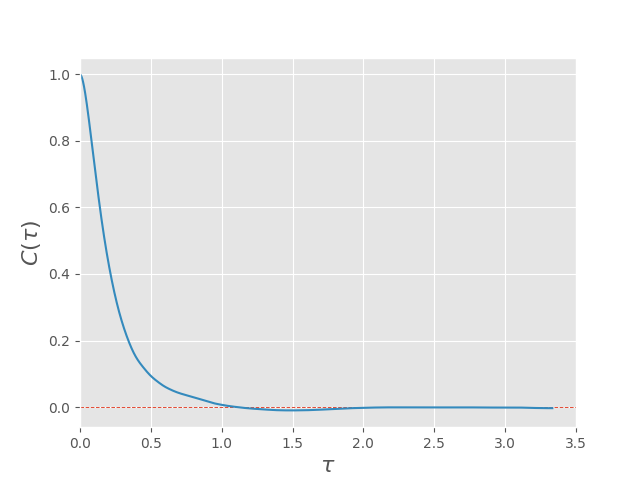
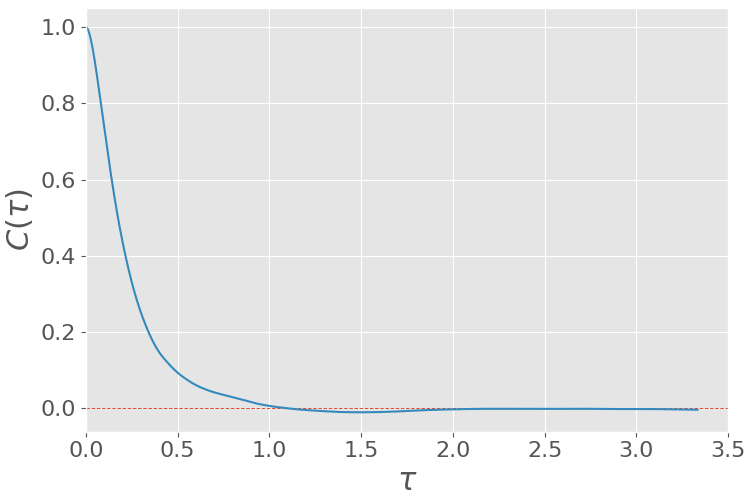
updates figures and legend for autocorr and pdf instant

diff --git a/draft_p2.tex b/draft_p2.tex
@@ -256,15 +256,16 @@ In particular, we show that extreme fluctuations mainly result from fluctuations
 
 \begin{figure}
   \centering
-    \subfloat[\ac{pdf} for the drag fluctuations $f'_d$]{\label{fig:pdf_drag_a}\includegraphics[width=.5\linewidth]{./PDF_drag/PDF_drag.png}}
-    \subfloat[Autocorrelation function of the the instantaneous drag $f_d$]{\label{fig:pdf_drag_b}\includegraphics[width=.5\linewidth]{autocorr_drag/autocorr_drag.png}}  
-  \caption{\textbf{(a)} \ac{pdf} describing the statistics of the instantaneous drag fluctuations $f'_d = (f_d - \bar{f_d})/\sigma$. This \ac{pdf} has been estimated on the basis of a timeseries spanning $T_{tot} = 10^6 \tau_c$. $\bar{f_d}$ and $\sigma$ denote the average and the standard deviation computed over the whole timeseries, respectively. The linear fits highlight the exponential behaviour of the the \ac{pdf} for rare events. \textbf{(b)} Autocorrelation function for the instantaneous drag $f_d$, defined as $(\mathbb{E}[f_d(t+\tau)f_d(t)]-\mathbb{E}[f_d]^2)/\sigma^2$ and estimated from a timeseries spanning $T_{tot} = 10^6 \tau_c$. This figure shows the exponential decay of the correlations over time.}
+    \subfloat[]{\label{fig:pdf_drag_a}\includegraphics[width=.5\linewidth]{./PDF_drag/PDF_drag.png}}
+    \subfloat[]{\label{fig:pdf_drag_b}\includegraphics[width=.5\linewidth]{autocorr_drag/autocorr_drag.png}}  
+  \caption{\textbf{(a)} \ac{pdf} describing the statistics of the instantaneous drag fluctuations, computed on the basis of the control timeseries. \textbf{(b)} Autocorrelation function for the instantaneous drag $f_d$, defined as $(\mathbb{E}[f_d(t+\tau)f_d(t)]-\mathbb{E}[f_d]^2)/\sigma^2$, computed over the control run. It shows the exponential decay of the correlations over time.}
   \label{fig:pdf_drag}
 \end{figure}
 
 In the following we consider the drag force acting on the obstacle as a scalar random process $f_d(t)$.
-In order to estimate its statistical properties, we performed a simulation of the dynamics over a duration $T_{tot} = 4\times 10^6\tau_c$.
+In order to estimate its statistical properties, we performed a simulation of the dynamics over a duration $T_{tot} = 4\times 10^6\tau_0$.
 In the following of this paper we refer to this long simulation as the \textit{control run}.
+Furthermore, we denote by $\bar{f}_d$ and $\sigma$ the average and variance computed over the control run, respectively.
 Figure~\ref{fig:pdf_drag} displays an estimate of the \ac{pdf} for the drag process, computed on the basis of the control timeseries $\{f_d(t)\}_{0\leq t \leq T_{tot}}$ obtained from the control run.
 One can see that the tails of this distribution, that describe the probability of very rare events, can be very well modelled by an exponential \ac{pdf} of the form $p(f_d) = \lambda^{-1}e^{-\lambda f_d}$.
 In addition, figure~\ref{fig:pdf_drag} displays an estimate of the \ac{pdf} of the process describing the drag acting on a control surface equivalent to the surface of  the obstacle, in a flow \textit{without obstacle}.
@@ -274,9 +275,8 @@ We conclude that the interation of the flow with the square obstacle is responsi
 In section~\ref{sec:time_avg}, we relate this very particular shape of the \ac{pdf} describing extreme drag fluctuations to the phenomenology of extreme fluctuations of the time-average of the drag process. 
 
 Lastly, figure~\ref{fig:correlation_function} illustrates that the drag process has exponentially decaying time correlations.
-In the following, we call \textit{correlation time}, the typical time it takes for the drag process to decorrelate.
-We note it $\tau_c$.
-From figure~\ref{fig:correlation_function}, one can see that $\tau_c \approx 4\tau_0$.
+In the following we call \textit{correlation time}, denoted by $\tau_c$, the typical time it takes for the drag process to decorrelate.
+We observe that $\tau_c \approx \tau_0$.
 This means that the drag decorrelates after only a few number of eddies interacted with the square obstacle.
 
 % \begin{equation}
@@ -292,7 +292,7 @@ This means that the drag decorrelates after only a few number of eddies interact
 \section{Direct sampling of extreme fluctuations of the drag acting on a square cylinder in two-dimensional turbulence}
 \label{sec:direct_sampling}
 
-In this section we describe the phenomenology of extreme fluctuations of the drag that acts on the square cylinder mounted in the flow described in section~\ref{sec:test_flow}.
+We now turn to a description of the phenomenology of extreme fluctuations of the drag that acts on the square cylinder mounted in the flow described in section~\ref{sec:test_flow}.
 
 How rare is a fluctuation $f_d \geq a$ can be determined by computing its \textit{return time} $r(a)$.
 It is defined as the average time between two consecutive occurrences of a fluctuation $f_d \geq a$.

diff --git a/figures/PDF_drag/plot_pdf.py b/figures/PDF_drag/plot_pdf.py
@@ -10,7 +10,7 @@ n=len(buf)/2
 f = buf[0:n]
 xi = buf[n:]
 
-fig,ax = plt.subplots(1,1)
+fig,ax = plt.subplots(1,1, figsize=(7.5,5), constrained_layout=True)
 lineSQ, = ax.plot(xi,f)
 lineSQ.set_label('With obstacle')
 
@@ -21,9 +21,11 @@ xi = buf[n:]
 lineNOSQ, = ax.plot(xi,f, label='No obstacle')
 
 ax.set_yscale('log')
-ax.set_xlabel('$f_d$',fontsize=16)
-plt.ylabel('$\log(PDF)$',fontsize=16)
-ax.legend(loc='upper right')
+ax.set_xlabel('$f_d - \\bar{f}_d$',fontsize=22)
+plt.ylabel('$\log(PDF)$',fontsize=22)
+plt.xticks(fontsize=16)
+plt.yticks(fontsize=16)
+ax.legend(loc='upper right', fontsize=16)
 
 fname = 'PDF_drag.png'
 plt.savefig(fname)

diff --git a/figures/autocorr_drag/plot_correlation.py b/figures/autocorr_drag/plot_correlation.py
@@ -10,15 +10,17 @@ n=len(buf)/2
 tDomain = buf[0:n]
 c = buf[n:]
 
-fig,ax = plt.subplots(1,1)
+fig,ax = plt.subplots(1,1, figsize=(7.5,5), constrained_layout=True)
 ax.set_xlim(0, 3.5)
 line0, =ax.plot(np.array([0, 3.5]), np.array([0, 0]))
 lineC, = ax.plot(tDomain/2000,c)
 line0.set_linestyle('--')
 line0.set_linewidth(0.7)
 
-ax.set_xlabel(r'$\tau$',fontsize=16)
-plt.ylabel(r'$C(\tau)$',fontsize=16)
+ax.set_xlabel(r'$\tau$',fontsize=22)
+plt.ylabel(r'$C(\tau)$',fontsize=22)
+plt.xticks(fontsize=16)
+plt.yticks(fontsize=16)
 
 fname = 'autocorr_drag.png'
 plt.savefig(fname)
